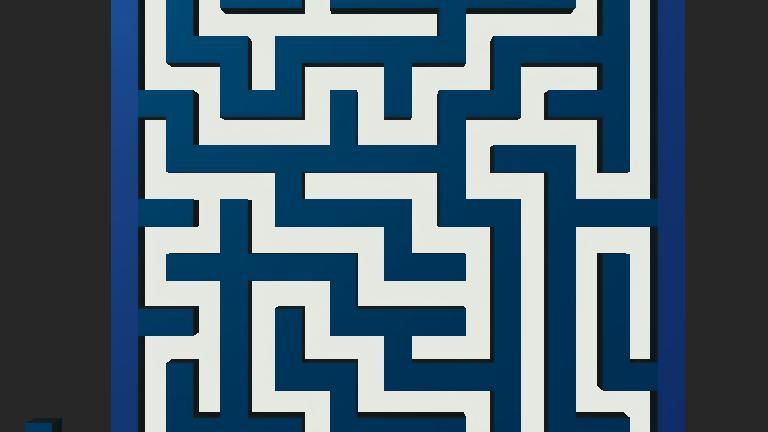
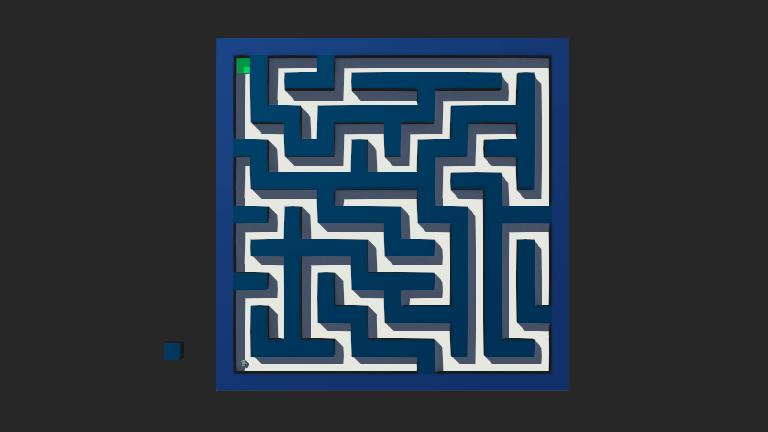
ahora si

diff --git a/README.md b/README.md
@@ -82,7 +82,7 @@ Se utiliza la API `Supervisor` de Webots para leer la posición y orientación r
 
 ### Escenario complejo — `maze_complex.wbt`
 
-![Escenario complejo](worlds/.maze_complex.jpg)
+![Escenario complejo](worlds/.maze_complex2.jpg)
 
 - **Grilla:** 20 × 20 celdas (0.2 m/celda → 4.0 m × 4.0 m)
 - **Inicio:** esquina inferior izquierda (celda 18, 1)
@@ -331,18 +331,18 @@ LAB2_MODO = "kalman"   # opciones: "crudo", "filtrado", "kalman"
 
 ## Resultados obtenidos y métricas de desempeño
 
-Las pruebas se realizaron posicionando el robot en la esquina inferior izquierda de cada laberinto, con la meta en la esquina superior derecha. El modo de filtrado utilizado fue **kalman**.
+Las pruebas se realizaron posicionando el robot en la esquina inferior izquierda de cada laberinto, con la meta en la esquina superior derecha. El modo de filtrado utilizado fue **kalman**. Los valores corresponden al resumen generado en `results/metrics_summary.md` el **2026-06-17 09:42**.
 
 ### Tabla comparativa
 
 | Métrica                         | Escenario simple | Escenario complejo |
 | ------------------------------- | :--------------: | :----------------: |
-| Celdas en ruta A\*              |    25 celdas     |     35 celdas      |
-| Waypoints generados             |      8 wps       |       7 wps        |
-| Longitud planificada (A\*)      |      4.80 m      |       6.80 m       |
-| Longitud real recorrida         |      4.56 m      |       6.76 m       |
-| Tiempo hasta meta               |     113.92 s     |      165.89 s      |
-| Error final de posición         |     0.0773 m     |      0.0787 m      |
+| Celdas en ruta A\*              |    25 celdas     |     95 celdas      |
+| Waypoints generados             |      8 wps       |       33 wps       |
+| Longitud planificada (A\*)      |      4.80 m      |      18.80 m       |
+| Longitud real recorrida         |      4.56 m      |      17.46 m       |
+| Tiempo hasta meta               |     113.92 s     |      466.56 s      |
+| Error final de posición         |     0.0773 m     |      3.4931 m      |
 | Bloqueos / recuperaciones       |        0         |         0          |
 | Robot llegó a la meta           |        ✓ Sí      |        ✓ Sí        |
 
@@ -351,13 +351,13 @@ Las pruebas se realizaron posicionando el robot en la esquina inferior izquierda
 
 ### Análisis de resultados
 
-**Longitud planificada vs. real:** La distancia real recorrida es ligeramente menor que la planificada por A\*. Esto se debe a que los waypoints se obtienen de una versión simplificada de la ruta (se eliminan puntos intermedios en tramos rectos), lo que permite al robot recortar levemente las trayectorias. La corrección de pose por el Supervisor también contribuye a esta diferencia.
+**Longitud planificada vs. real:** La distancia real recorrida es menor que la planificada por A\*. Esto se debe a que los waypoints se obtienen de una versión simplificada de la ruta (se eliminan puntos intermedios en tramos rectos), lo que permite al robot recortar trayectorias respecto del camino celda a celda. En el escenario complejo la diferencia es más marcada por la mayor cantidad de celdas y waypoints.
 
-**Error final:** El error de posición al llegar a la meta es inferior a **0.08 m** en ambos escenarios, equivalente a la tolerancia de llegada configurada en el seguidor de waypoints. Esto confirma que el robot alcanza la meta con precisión suficiente para el contexto de la tarea.
+**Error final:** En el escenario simple el error final es **0.0773 m**, dentro de la tolerancia de llegada de **0.08 m** configurada en el seguidor de waypoints. En el escenario complejo el resumen actualizado reporta **3.4931 m**, pese a que el registro indica `META_ALCANZADA`; esto evidencia una discrepancia entre la condición de llegada y la medición final de posición que debe considerarse al interpretar los resultados.
 
 **Bloqueos:** Ningún evento de recuperación fue necesario en ningún escenario. Esto indica que la ruta planificada por A\* es suficientemente segura y que la navegación reactiva resolvió por sí sola cualquier pequeña desviación sin necesidad de activar la recuperación por bloqueo.
 
-**Tiempo:** El escenario complejo requirió aproximadamente **52 segundos adicionales** respecto al simple, proporcional al incremento de longitud (+2.0 m) a velocidad lineal constante de 0.045 m/s.
+**Tiempo:** El escenario complejo requirió aproximadamente **352.64 segundos adicionales** respecto al simple. Este aumento es consistente con una ruta planificada mucho más extensa (+14.0 m), mayor cantidad de waypoints y más maniobras de giro durante el seguimiento.
 
 **Estabilidad del Kalman:** La ganancia `K` del filtro Kalman convergió rápidamente en ambas simulaciones, proporcionando una señal de proximidad frontal más estable que la medición cruda para la toma de decisiones reactivas.
 
@@ -376,7 +376,7 @@ Los videos de la simulación en ambos escenarios se encuentran en la carpeta [`v
 
 ## Conclusiones
 
-1. **El sistema de navegación autónoma funciona correctamente** en ambos escenarios: el robot planifica una ruta óptima con A\*, la ejecuta mediante seguimiento de waypoints y llega a la meta con un error inferior a 0.08 m en todos los casos.
+1. **El sistema de navegación autónoma completa ambos escenarios**: el robot planifica una ruta con A\*, la ejecuta mediante seguimiento de waypoints y el registro indica llegada a la meta tanto en el laberinto simple como en el complejo. Sin embargo, el escenario complejo reporta un error final de posición alto (**3.4931 m**), por lo que esa medición debe revisarse o justificarse en el análisis.
 
 2. **La integración A\* + navegación reactiva es efectiva.** La capa reactiva actúa como red de seguridad ante situaciones no contempladas en la grilla estática, mientras que A\* provee la dirección global. En las pruebas realizadas, la ruta planificada fue suficientemente limpia como para no requerir recuperaciones por bloqueo.
 